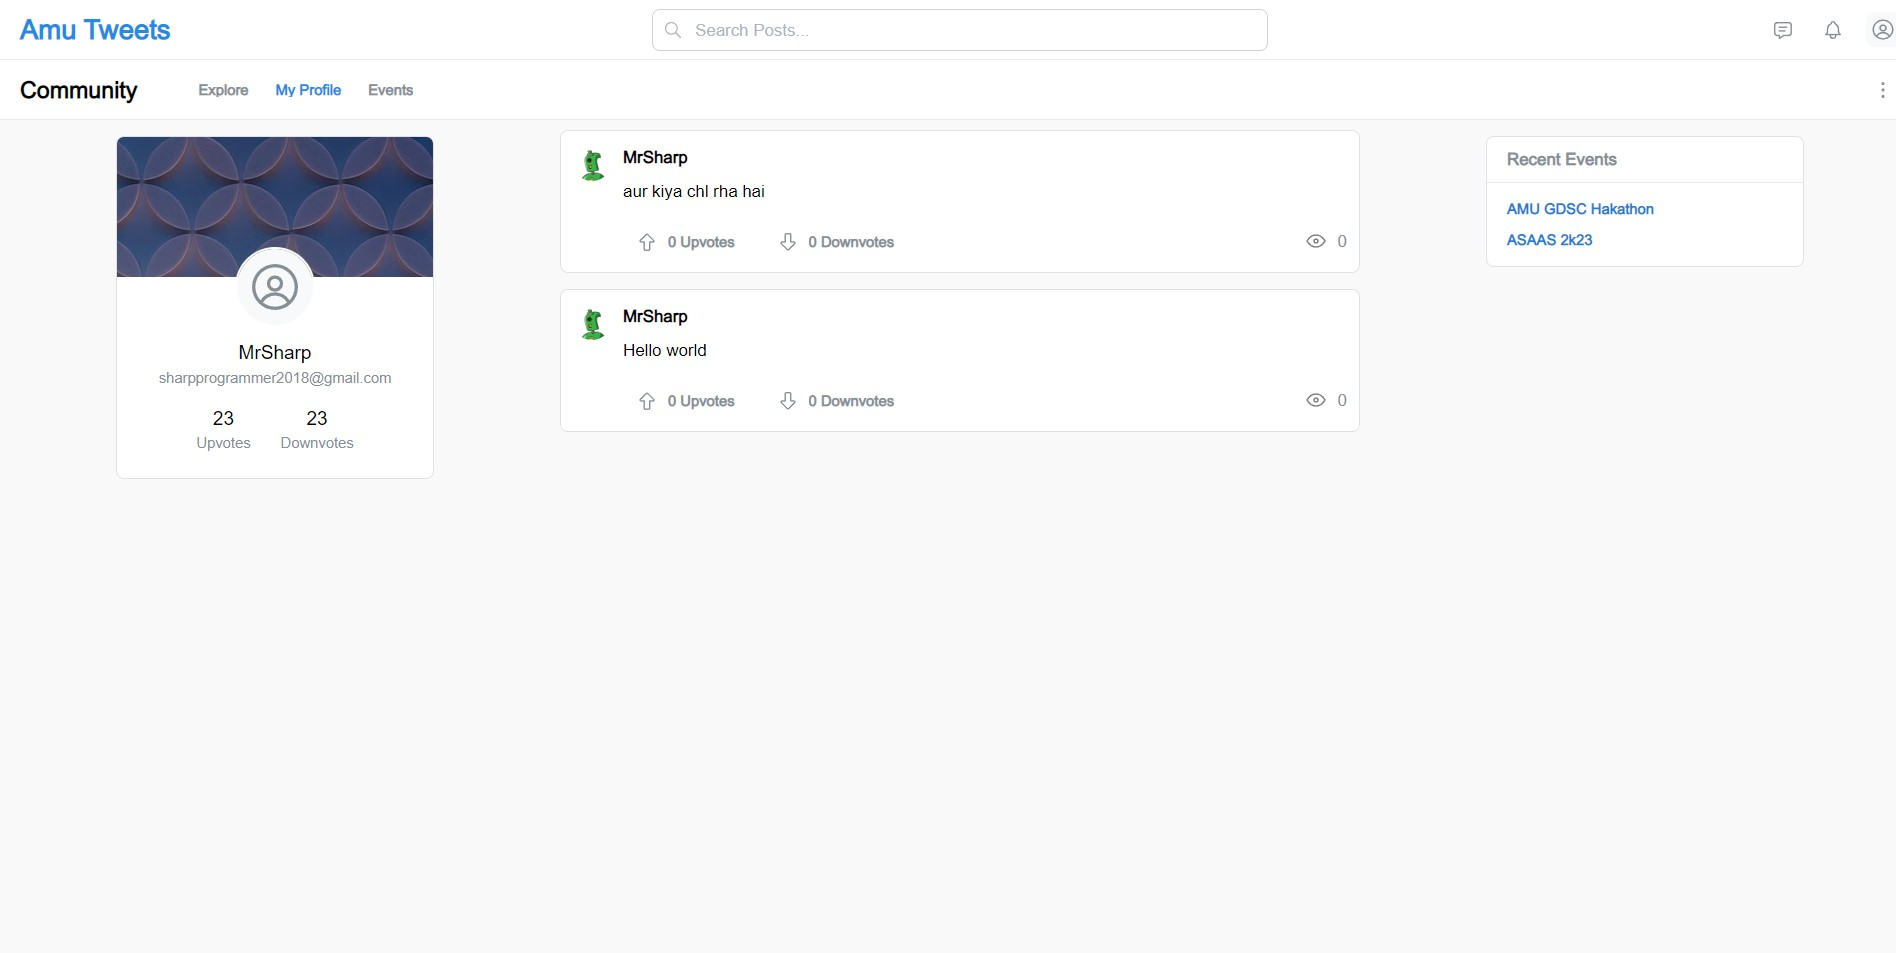
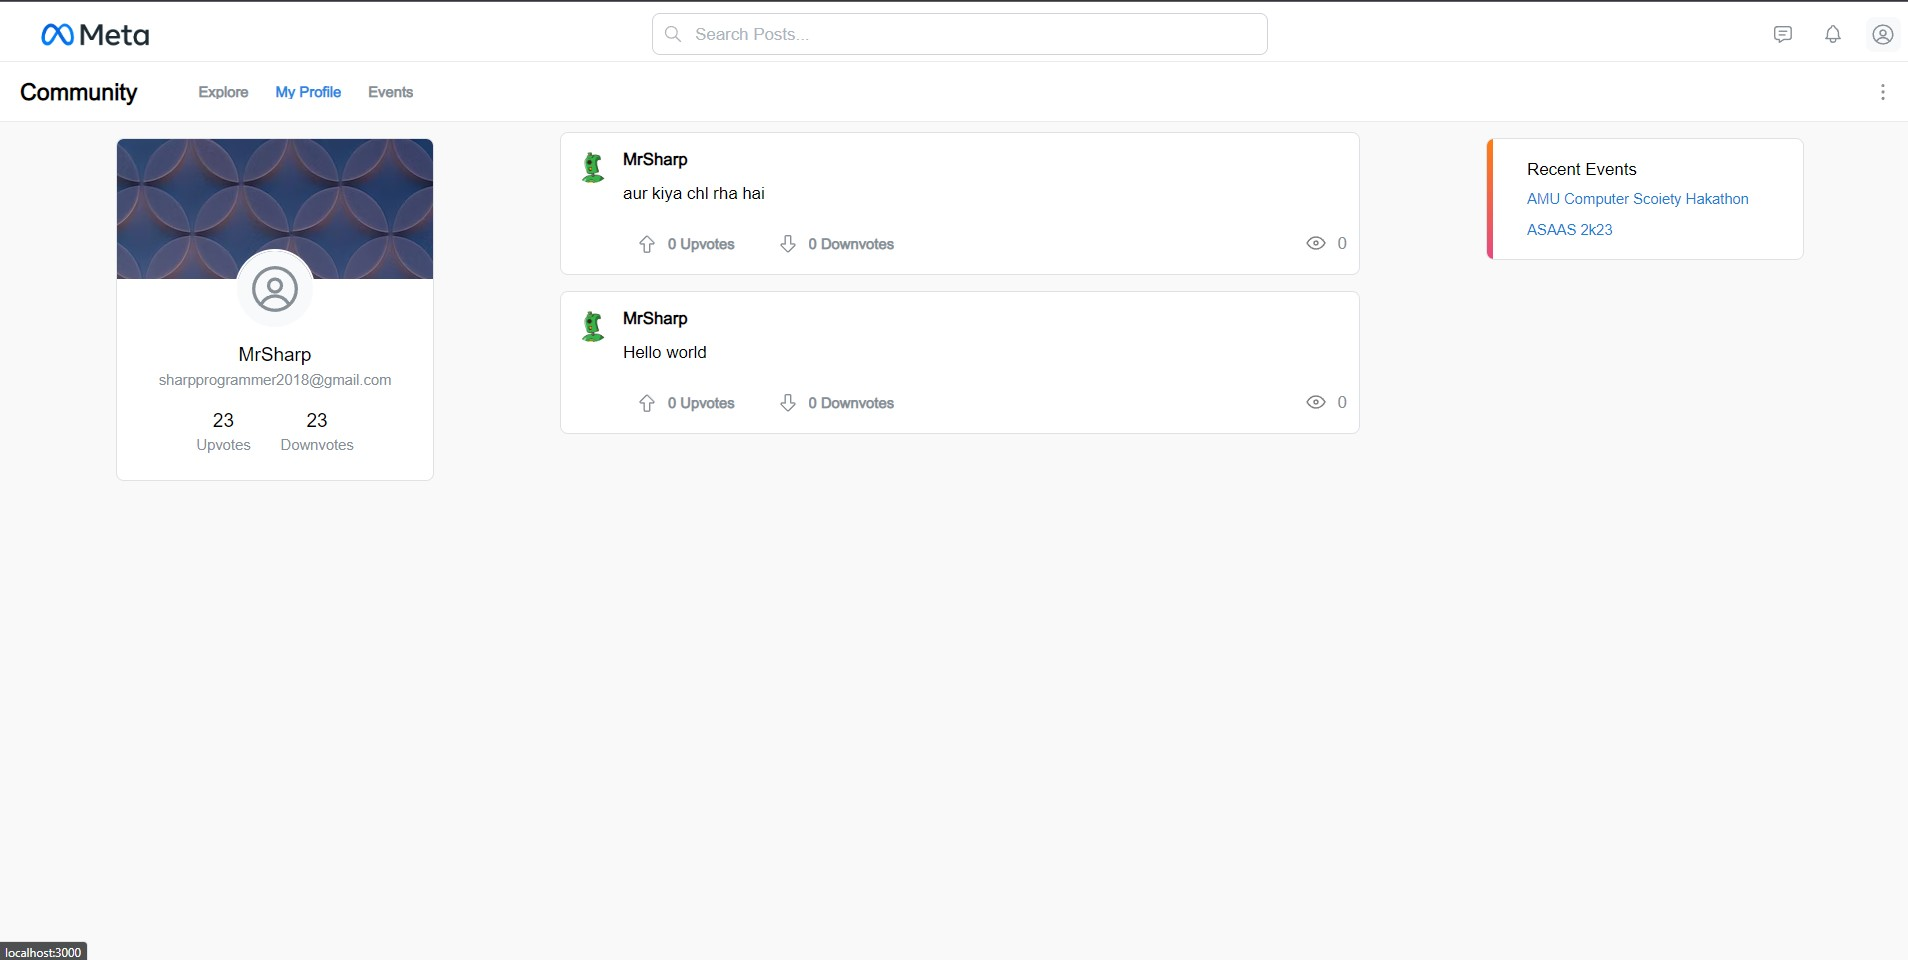
animations

diff --git a/client/src/Components/PopularEvents.tsx b/client/src/Components/PopularEvents.tsx
@@ -1,21 +1,58 @@
-import { Anchor, Flex, Paper, Text } from '@mantine/core';
+import {
+  Anchor,
+  Flex,
+  Paper,
+  Text,
+  Title,
+  createStyles,
+  rem,
+} from '@mantine/core';
+
+const useStyles = createStyles(theme => ({
+  card: {
+    position: 'relative',
+    cursor: 'pointer',
+    overflow: 'hidden',
+    transition: 'transform 150ms ease, box-shadow 100ms ease',
+    padding: theme.spacing.xs,
+    paddingLeft: `calc(${theme.spacing.lg} * 2)`,
+
+    '&:hover': {
+      boxShadow: theme.shadows.md,
+      transform: 'scale(1.02)',
+    },
+
+    '&::before': {
+      content: '""',
+      position: 'absolute',
+      top: 0,
+      bottom: 0,
+      left: 0,
+      width: rem(6),
+      backgroundImage: theme.fn.linearGradient(
+        0,
+        theme.colors.pink[6],
+        theme.colors.orange[6]
+      ),
+    },
+  },
+}));
 
 export const TrendingEvents = () => {
+  const { classes } = useStyles();
+
   return (
-    <Paper radius={'md'} withBorder>
-      <Text weight={600} size="md" py="10px" pl={'20px'} color="gray">
+    <Paper withBorder radius="md" className={classes.card}>
+      <Title size="xl" weight={500} mt="xs">
         Trending Events
-      </Text>
-      <hr
-        color="#E9ECEF"
-        style={{ border: 'none', height: '1px', margin: 0, padding: 0 }}
-      />
-      <Flex direction={'column'} gap="xs" py="15px" pl={'20px'}>
-        <Anchor style={{ textDecoration: 'none' }} size={'sm'} weight={800}>
-          Where do i need to got ..
+      </Title>
+      <Flex direction={'column'} py="8px" pr={'sm'} sx={{ gap: '10px' }}>
+        <Anchor style={{ textDecoration: 'none' }} size={'sm'} weight={400}>
+          AMU Computer Scoiety Hakathon
         </Anchor>
-        <Anchor style={{ textDecoration: 'none' }} size={'sm'} weight={800}>
-          Where do i need to got ..
+
+        <Anchor style={{ textDecoration: 'none' }} size={'sm'} weight={400}>
+          ASAAS 2k23
         </Anchor>
       </Flex>
     </Paper>

diff --git a/client/src/Components/Feed.tsx b/client/src/Components/Feed.tsx
@@ -13,6 +13,8 @@ import {
   Anchor,
   HoverCard,
   Stack,
+  createStyles,
+  rem,
 } from '@mantine/core';
 import { IconArrowBigUp, IconArrowBigDown, IconEye } from '@tabler/icons-react';
 
@@ -25,14 +27,32 @@ interface IProps {
   data: IPost;
 }
 
+const useStyles = createStyles(theme => ({
+  lol: {
+    '&:hover': {
+      boxShadow: theme.shadows.md,
+      transform: 'scale(1.02)',
+    },
+
+    '&::before': {
+      content: '""',
+      position: 'absolute',
+      top: 0,
+      bottom: 0,
+      left: 0,
+    },
+  },
+}));
+
 export const Feed = ({ showProfile = true, data }: IProps) => {
   const [status, setStatus] = useState<'upvoted' | 'downoted' | ''>('');
+  const { classes } = useStyles();
 
   if (!data) return;
   console.log(data);
 
   return (
-    <Paper withBorder p="sm">
+    <Paper withBorder p="sm" className={classes.lol}>
       <Flex gap="sm">
         <ProfileHover showProfile={showProfile} user={data.user} />
 
